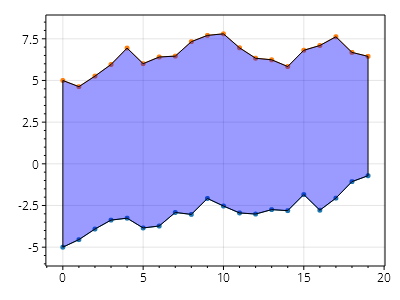
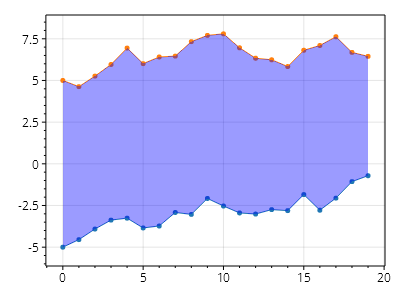
SP5: update cookbook

diff --git a/content/cookbook/5.0/cookbook-5.0.md b/content/cookbook/5.0/cookbook-5.0.md
@@ -2,12 +2,12 @@
 title: ScottPlot 5.0 Cookbook
 description: Example plots shown next to the code used to create them
 url: /cookbook/5.0/
-date: 8/13/2023 5:22:29 PM
+date: 10/3/2023 10:20:48 AM
 ---
 
 
 
-<div class='alert alert-warning' role='alert'><h4 class='alert-heading py-0 my-0'>⚠ ScottPlot 5.0.8-beta is a preview package</h4><hr /><p class='mb-0'><span class='fw-semibold'>This page describes a beta release of ScottPlot.</span> It is available on NuGet as a preview package, but its API is not stable and it is not recommended for production use. See the <a href='https://scottplot.net/versions/'>ScottPlot Versions</a> page for more information. </p></div>
+<div class='alert alert-warning' role='alert'><h4 class='alert-heading py-0 my-0'>⚠ ScottPlot 5.0.9-beta is a preview package</h4><hr /><p class='mb-0'><span class='fw-semibold'>This page describes a beta release of ScottPlot.</span> It is available on NuGet as a preview package, but its API is not stable and it is not recommended for production use. See the <a href='https://scottplot.net/versions/'>ScottPlot Versions</a> page for more information. </p></div>
 
 
 ## Introduction
@@ -437,6 +437,19 @@ date: 8/13/2023 5:22:29 PM
 <div class='col'>
 <div><a href='signal-plot/#offset'><b>Offset</b></a></div>
 <div>Signal plots can be offset by a given X and Y value.</div>
+</div>
+</div>
+<hr class='my-5' />
+## Statistics
+<div class='fs-4 mt-4'>Regression</div>
+<div>Statistical operations to fit lines to data</div>
+<div class='row my-4'>
+<div class='col'>
+<a href='regression/#linearregression'><img class='img-fluid' src='regression/linearregression.png' /></a>
+</div>
+<div class='col'>
+<div><a href='regression/#linearregression'><b>LinearRegression</b></a></div>
+<div>Fit a line to a collection of X/Y data points.</div>
 </div>
 </div>
 <hr class='my-5' />

diff --git a/content/cookbook/5.0/regression/index.md b/content/cookbook/5.0/regression/index.md
@@ -1,0 +1,48 @@
+---
+title: Regression - ScottPlot 5.0 Cookbook
+description: Statistical operations to fit lines to data
+url: /cookbook/5.0/regression/
+date: 10/3/2023 10:20:48 AM
+---
+
+This page is part of the [ScottPlot 5.0 Cookbook](../)
+
+
+<div class='alert alert-warning' role='alert'><h4 class='alert-heading py-0 my-0'>⚠ ScottPlot 5.0.9-beta is a preview package</h4><hr /><p class='mb-0'><span class='fw-semibold'>This page describes a beta release of ScottPlot.</span> It is available on NuGet as a preview package, but its API is not stable and it is not recommended for production use. See the <a href='https://scottplot.net/versions/'>ScottPlot Versions</a> page for more information. </p></div>
+
+
+
+## LinearRegression
+
+Fit a line to a collection of X/Y data points.
+
+[![](linearregression.png)](linearregression.png)
+
+```cs
+ScottPlot.Plot myPlot = new();
+
+double[] xs = new double[] { 1, 2, 3, 4, 5, 6, 7 };
+double[] ys = new double[] { 2, 2, 3, 3, 3.8, 4.2, 4 };
+
+// plot original data as a scatter plot
+var sp = myPlot.Add.Scatter(xs, ys);
+sp.LineStyle = LineStyle.None;
+sp.MarkerStyle.Size = 10;
+
+// calculate the regression line
+ScottPlot.Statistics.LinearRegression reg = new(xs, ys);
+
+// plot the regression line
+Coordinates pt1 = new(xs.First(), reg.GetValue(xs.First()));
+Coordinates pt2 = new(xs.Last(), reg.GetValue(xs.Last()));
+var line = myPlot.Add.Line(pt1, pt2);
+line.MarkerStyle = MarkerStyle.None;
+line.LineStyle.Pattern = LinePattern.Dash;
+line.LineStyle.Width = 2;
+
+// note the formula at the top of the plot
+myPlot.Title($"y = {reg.Slope:0.###}x + {reg.Offset:0.###} (r²={reg.Rsquared:0.###})");
+
+myPlot.SavePng("linearregression.png");
+```
+

diff --git a/content/cookbook/5.0/box-plot/index.md b/content/cookbook/5.0/box-plot/index.md
@@ -2,13 +2,13 @@
 title: Box Plot - ScottPlot 5.0 Cookbook
 description: Box plots show a distribution at a glance
 url: /cookbook/5.0/box-plot/
-date: 8/13/2023 5:22:29 PM
+date: 10/3/2023 10:20:48 AM
 ---
 
 This page is part of the [ScottPlot 5.0 Cookbook](../)
 
 
-<div class='alert alert-warning' role='alert'><h4 class='alert-heading py-0 my-0'>⚠ ScottPlot 5.0.8-beta is a preview package</h4><hr /><p class='mb-0'><span class='fw-semibold'>This page describes a beta release of ScottPlot.</span> It is available on NuGet as a preview package, but its API is not stable and it is not recommended for production use. See the <a href='https://scottplot.net/versions/'>ScottPlot Versions</a> page for more information. </p></div>
+<div class='alert alert-warning' role='alert'><h4 class='alert-heading py-0 my-0'>⚠ ScottPlot 5.0.9-beta is a preview package</h4><hr /><p class='mb-0'><span class='fw-semibold'>This page describes a beta release of ScottPlot.</span> It is available on NuGet as a preview package, but its API is not stable and it is not recommended for production use. See the <a href='https://scottplot.net/versions/'>ScottPlot Versions</a> page for more information. </p></div>
 
 
 
@@ -188,7 +188,7 @@ ScottPlot.Plottables.Box CreateBox()
 int numBoxesPerSeries = 3;
 int numSeries = 2;
 ScottPlot.Plottables.BoxGroup[] series = new ScottPlot.Plottables.BoxGroup[numSeries];
-var colorPalette = new Category10();
+var colorPalette = new ScottPlot.Palettes.Category10();
 for (int i = 0; i < series.Length; i++)
 {
     series[i] = new ScottPlot.Plottables.BoxGroup

diff --git a/content/cookbook/5.0/filly-plot/index.md b/content/cookbook/5.0/filly-plot/index.md
@@ -2,13 +2,13 @@
 title: FillY plot - ScottPlot 5.0 Cookbook
 description: FillY plots display the vertical range between two Y values at defined X positions
 url: /cookbook/5.0/filly-plot/
-date: 8/13/2023 5:22:29 PM
+date: 10/3/2023 10:20:48 AM
 ---
 
 This page is part of the [ScottPlot 5.0 Cookbook](../)
 
 
-<div class='alert alert-warning' role='alert'><h4 class='alert-heading py-0 my-0'>⚠ ScottPlot 5.0.8-beta is a preview package</h4><hr /><p class='mb-0'><span class='fw-semibold'>This page describes a beta release of ScottPlot.</span> It is available on NuGet as a preview package, but its API is not stable and it is not recommended for production use. See the <a href='https://scottplot.net/versions/'>ScottPlot Versions</a> page for more information. </p></div>
+<div class='alert alert-warning' role='alert'><h4 class='alert-heading py-0 my-0'>⚠ ScottPlot 5.0.9-beta is a preview package</h4><hr /><p class='mb-0'><span class='fw-semibold'>This page describes a beta release of ScottPlot.</span> It is available on NuGet as a preview package, but its API is not stable and it is not recommended for production use. See the <a href='https://scottplot.net/versions/'>ScottPlot Versions</a> page for more information. </p></div>
 
 
 
@@ -118,6 +118,8 @@ xyy.LineStyle.AntiAlias = true;
 xyy.LineStyle.Color = Colors.DarkBlue;
 xyy.LineStyle.Pattern = LinePattern.Dot;
 xyy.LineStyle.Width = 2;
+xyy.Label = "xyy";
+myPlot.Legend(true);
 
 myPlot.SavePng("filly-plot-styling.png");
 ```

diff --git a/content/cookbook/5.0/advanced-axis-features/index.md b/content/cookbook/5.0/advanced-axis-features/index.md
@@ -2,13 +2,13 @@
 title: Advanced Axis Features - ScottPlot 5.0 Cookbook
 description: Tick mark customization and creation of multi-Axis plots
 url: /cookbook/5.0/advanced-axis-features/
-date: 8/13/2023 5:22:29 PM
+date: 10/3/2023 10:20:48 AM
 ---
 
 This page is part of the [ScottPlot 5.0 Cookbook](../)
 
 
-<div class='alert alert-warning' role='alert'><h4 class='alert-heading py-0 my-0'>⚠ ScottPlot 5.0.8-beta is a preview package</h4><hr /><p class='mb-0'><span class='fw-semibold'>This page describes a beta release of ScottPlot.</span> It is available on NuGet as a preview package, but its API is not stable and it is not recommended for production use. See the <a href='https://scottplot.net/versions/'>ScottPlot Versions</a> page for more information. </p></div>
+<div class='alert alert-warning' role='alert'><h4 class='alert-heading py-0 my-0'>⚠ ScottPlot 5.0.9-beta is a preview package</h4><hr /><p class='mb-0'><span class='fw-semibold'>This page describes a beta release of ScottPlot.</span> It is available on NuGet as a preview package, but its API is not stable and it is not recommended for production use. See the <a href='https://scottplot.net/versions/'>ScottPlot Versions</a> page for more information. </p></div>
 
 
 

diff --git a/content/cookbook/5.0/configuring-legends/index.md b/content/cookbook/5.0/configuring-legends/index.md
@@ -2,13 +2,13 @@
 title: Configuring Legends - ScottPlot 5.0 Cookbook
 description: A legend is a key typically displayed in the corner of a plot
 url: /cookbook/5.0/configuring-legends/
-date: 8/13/2023 5:22:29 PM
+date: 10/3/2023 10:20:48 AM
 ---
 
 This page is part of the [ScottPlot 5.0 Cookbook](../)
 
 
-<div class='alert alert-warning' role='alert'><h4 class='alert-heading py-0 my-0'>⚠ ScottPlot 5.0.8-beta is a preview package</h4><hr /><p class='mb-0'><span class='fw-semibold'>This page describes a beta release of ScottPlot.</span> It is available on NuGet as a preview package, but its API is not stable and it is not recommended for production use. See the <a href='https://scottplot.net/versions/'>ScottPlot Versions</a> page for more information. </p></div>
+<div class='alert alert-warning' role='alert'><h4 class='alert-heading py-0 my-0'>⚠ ScottPlot 5.0.9-beta is a preview package</h4><hr /><p class='mb-0'><span class='fw-semibold'>This page describes a beta release of ScottPlot.</span> It is available on NuGet as a preview package, but its API is not stable and it is not recommended for production use. See the <a href='https://scottplot.net/versions/'>ScottPlot Versions</a> page for more information. </p></div>
 
 
 

diff --git a/content/cookbook/5.0/scottplot-5-quickstart/index.md b/content/cookbook/5.0/scottplot-5-quickstart/index.md
@@ -2,13 +2,13 @@
 title: ScottPlot 5 Quickstart - ScottPlot 5.0 Cookbook
 description: A survey of basic functionality in ScottPlot 5
 url: /cookbook/5.0/scottplot-5-quickstart/
-date: 8/13/2023 5:22:29 PM
+date: 10/3/2023 10:20:48 AM
 ---
 
 This page is part of the [ScottPlot 5.0 Cookbook](../)
 
 
-<div class='alert alert-warning' role='alert'><h4 class='alert-heading py-0 my-0'>⚠ ScottPlot 5.0.8-beta is a preview package</h4><hr /><p class='mb-0'><span class='fw-semibold'>This page describes a beta release of ScottPlot.</span> It is available on NuGet as a preview package, but its API is not stable and it is not recommended for production use. See the <a href='https://scottplot.net/versions/'>ScottPlot Versions</a> page for more information. </p></div>
+<div class='alert alert-warning' role='alert'><h4 class='alert-heading py-0 my-0'>⚠ ScottPlot 5.0.9-beta is a preview package</h4><hr /><p class='mb-0'><span class='fw-semibold'>This page describes a beta release of ScottPlot.</span> It is available on NuGet as a preview package, but its API is not stable and it is not recommended for production use. See the <a href='https://scottplot.net/versions/'>ScottPlot Versions</a> page for more information. </p></div>
 
 
 

diff --git a/content/cookbook/5.0/error-bars/index.md b/content/cookbook/5.0/error-bars/index.md
@@ -2,13 +2,13 @@
 title: Error Bars - ScottPlot 5.0 Cookbook
 description: Error Bars communicate the range of possible values for a measurement
 url: /cookbook/5.0/error-bars/
-date: 8/13/2023 5:22:29 PM
+date: 10/3/2023 10:20:48 AM
 ---
 
 This page is part of the [ScottPlot 5.0 Cookbook](../)
 
 
-<div class='alert alert-warning' role='alert'><h4 class='alert-heading py-0 my-0'>⚠ ScottPlot 5.0.8-beta is a preview package</h4><hr /><p class='mb-0'><span class='fw-semibold'>This page describes a beta release of ScottPlot.</span> It is available on NuGet as a preview package, but its API is not stable and it is not recommended for production use. See the <a href='https://scottplot.net/versions/'>ScottPlot Versions</a> page for more information. </p></div>
+<div class='alert alert-warning' role='alert'><h4 class='alert-heading py-0 my-0'>⚠ ScottPlot 5.0.9-beta is a preview package</h4><hr /><p class='mb-0'><span class='fw-semibold'>This page describes a beta release of ScottPlot.</span> It is available on NuGet as a preview package, but its API is not stable and it is not recommended for production use. See the <a href='https://scottplot.net/versions/'>ScottPlot Versions</a> page for more information. </p></div>
 
 
 

diff --git a/content/cookbook/5.0/axis-and-ticks/index.md b/content/cookbook/5.0/axis-and-ticks/index.md
@@ -2,13 +2,13 @@
 title: Axis and Ticks - ScottPlot 5.0 Cookbook
 description: Examples of common customizations for axis labels and ticks
 url: /cookbook/5.0/axis-and-ticks/
-date: 8/13/2023 5:22:29 PM
+date: 10/3/2023 10:20:48 AM
 ---
 
 This page is part of the [ScottPlot 5.0 Cookbook](../)
 
 
-<div class='alert alert-warning' role='alert'><h4 class='alert-heading py-0 my-0'>⚠ ScottPlot 5.0.8-beta is a preview package</h4><hr /><p class='mb-0'><span class='fw-semibold'>This page describes a beta release of ScottPlot.</span> It is available on NuGet as a preview package, but its API is not stable and it is not recommended for production use. See the <a href='https://scottplot.net/versions/'>ScottPlot Versions</a> page for more information. </p></div>
+<div class='alert alert-warning' role='alert'><h4 class='alert-heading py-0 my-0'>⚠ ScottPlot 5.0.9-beta is a preview package</h4><hr /><p class='mb-0'><span class='fw-semibold'>This page describes a beta release of ScottPlot.</span> It is available on NuGet as a preview package, but its API is not stable and it is not recommended for production use. See the <a href='https://scottplot.net/versions/'>ScottPlot Versions</a> page for more information. </p></div>
 
 
 

diff --git a/content/cookbook/5.0/customizing-ticks/index.md b/content/cookbook/5.0/customizing-ticks/index.md
@@ -2,13 +2,13 @@
 title: Customizing Ticks - ScottPlot 5.0 Cookbook
 description: Advanced customization of tick marks and tick labels
 url: /cookbook/5.0/customizing-ticks/
-date: 8/13/2023 5:22:29 PM
+date: 10/3/2023 10:20:48 AM
 ---
 
 This page is part of the [ScottPlot 5.0 Cookbook](../)
 
 
-<div class='alert alert-warning' role='alert'><h4 class='alert-heading py-0 my-0'>⚠ ScottPlot 5.0.8-beta is a preview package</h4><hr /><p class='mb-0'><span class='fw-semibold'>This page describes a beta release of ScottPlot.</span> It is available on NuGet as a preview package, but its API is not stable and it is not recommended for production use. See the <a href='https://scottplot.net/versions/'>ScottPlot Versions</a> page for more information. </p></div>
+<div class='alert alert-warning' role='alert'><h4 class='alert-heading py-0 my-0'>⚠ ScottPlot 5.0.9-beta is a preview package</h4><hr /><p class='mb-0'><span class='fw-semibold'>This page describes a beta release of ScottPlot.</span> It is available on NuGet as a preview package, but its API is not stable and it is not recommended for production use. See the <a href='https://scottplot.net/versions/'>ScottPlot Versions</a> page for more information. </p></div>
 
 
 

diff --git a/content/cookbook/5.0/financial-plot/index.md b/content/cookbook/5.0/financial-plot/index.md
@@ -2,13 +2,13 @@
 title: Financial Plot - ScottPlot 5.0 Cookbook
 description: Finance plots display price data binned into time ranges
 url: /cookbook/5.0/financial-plot/
-date: 8/13/2023 5:22:29 PM
+date: 10/3/2023 10:20:48 AM
 ---
 
 This page is part of the [ScottPlot 5.0 Cookbook](../)
 
 
-<div class='alert alert-warning' role='alert'><h4 class='alert-heading py-0 my-0'>⚠ ScottPlot 5.0.8-beta is a preview package</h4><hr /><p class='mb-0'><span class='fw-semibold'>This page describes a beta release of ScottPlot.</span> It is available on NuGet as a preview package, but its API is not stable and it is not recommended for production use. See the <a href='https://scottplot.net/versions/'>ScottPlot Versions</a> page for more information. </p></div>
+<div class='alert alert-warning' role='alert'><h4 class='alert-heading py-0 my-0'>⚠ ScottPlot 5.0.9-beta is a preview package</h4><hr /><p class='mb-0'><span class='fw-semibold'>This page describes a beta release of ScottPlot.</span> It is available on NuGet as a preview package, but its API is not stable and it is not recommended for production use. See the <a href='https://scottplot.net/versions/'>ScottPlot Versions</a> page for more information. </p></div>
 
 
 

diff --git a/content/cookbook/5.0/bar-plot/index.md b/content/cookbook/5.0/bar-plot/index.md
@@ -2,13 +2,13 @@
 title: Bar Plot - ScottPlot 5.0 Cookbook
 description: Bar plots represent values as horizontal or vertical rectangles
 url: /cookbook/5.0/bar-plot/
-date: 8/13/2023 5:22:29 PM
+date: 10/3/2023 10:20:48 AM
 ---
 
 This page is part of the [ScottPlot 5.0 Cookbook](../)
 
 
-<div class='alert alert-warning' role='alert'><h4 class='alert-heading py-0 my-0'>⚠ ScottPlot 5.0.8-beta is a preview package</h4><hr /><p class='mb-0'><span class='fw-semibold'>This page describes a beta release of ScottPlot.</span> It is available on NuGet as a preview package, but its API is not stable and it is not recommended for production use. See the <a href='https://scottplot.net/versions/'>ScottPlot Versions</a> page for more information. </p></div>
+<div class='alert alert-warning' role='alert'><h4 class='alert-heading py-0 my-0'>⚠ ScottPlot 5.0.9-beta is a preview package</h4><hr /><p class='mb-0'><span class='fw-semibold'>This page describes a beta release of ScottPlot.</span> It is available on NuGet as a preview package, but its API is not stable and it is not recommended for production use. See the <a href='https://scottplot.net/versions/'>ScottPlot Versions</a> page for more information. </p></div>
 
 
 
